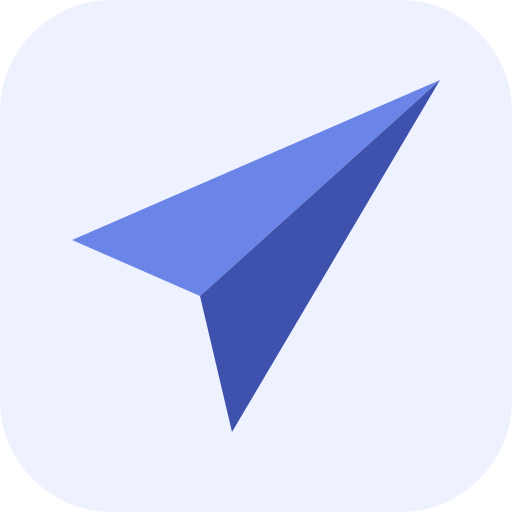
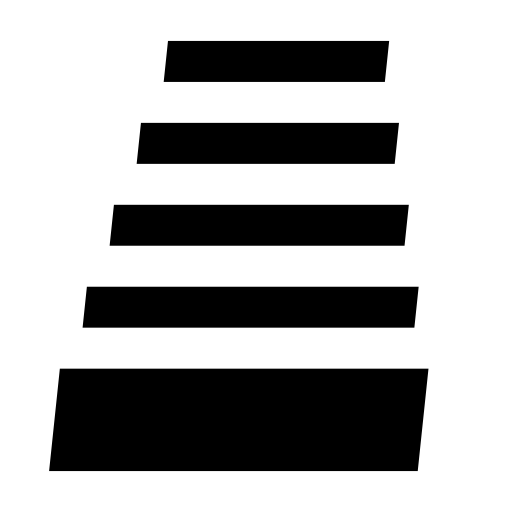
feat(brand): replace the Dart with the Stack mark everywhere
One artwork, everywhere: a black stack of four tapering bars over a solid
block, centred and sheared 6 degrees, on a plain white ground. There is no
reversed, tinted or accent-coloured variant, by design.

All of public/brand/ and app/icon.png are now generated by
scripts/generate-brand-assets.mjs. Change MARK_PATH there and re-run rather
than hand-editing any asset, so the favicon, the OG card, the header and the
extension cannot drift apart. opengraph-image.tsx inlines the same path.

Three wrappers assumed the old mark and were corrected:
- /start founder note no longer rounds or pads it; the artwork is a square
  with its own ground and the corners were being clipped.
- /try popup mock no longer sits it on a bg-brand tile.
- /try toolbar ring is neutral rather than brand blue.

Deletes unreferenced litos-logo-blue.svg and litos-logo-white.svg, which
carried the old branding and nothing pointed at them.

diff --git a/components/try/TrySimulator.tsx b/components/try/TrySimulator.tsx
@@ -234,7 +234,7 @@ export function TrySimulator({
           </span>
           <span className="shrink-0 text-[13px] text-faint">🧩</span>
           {/* The Litos toolbar icon the popup hangs off of */}
-          <span className="flex h-6 w-6 shrink-0 items-center justify-center rounded-md ring-2 ring-brand/30">
+          <span className="flex h-6 w-6 shrink-0 items-center justify-center rounded-md ring-2 ring-ink/15">
             {/* eslint-disable-next-line @next/next/no-img-element */}
             <img src="/brand/litos-mark.svg" alt="" className="h-5 w-5" />
           </span>
@@ -283,12 +283,13 @@ export function TrySimulator({
               {/* caret pointing up to the toolbar icon */}
               <span className="absolute -top-1.5 right-6 hidden h-3 w-3 rotate-45 rounded-[3px] border-l border-t border-border bg-white lg:block" />
 
-              {/* Header, matches the real popup: brand square + name + icons */}
+              {/* Header, matches the real popup: the mark + name + icons. The mark
+                  carries its own white ground, so it sits on no coloured tile. */}
               <div className="flex items-center justify-between border-b border-border px-4 py-3">
                 <span className="flex items-center gap-2">
-                  <span className="flex h-6 w-6 items-center justify-center rounded-lg bg-brand">
+                  <span className="flex h-6 w-6 items-center justify-center">
                     {/* eslint-disable-next-line @next/next/no-img-element */}
-                    <img src="/brand/litos-mark.svg" alt="" className="h-4 w-4" />
+                    <img src="/brand/litos-mark.svg" alt="" className="h-6 w-6" />
                   </span>
                   <span className="text-[15px] font-bold tracking-tight text-ink">
                     Litos

diff --git a/components/start/ui.tsx b/components/start/ui.tsx
@@ -175,11 +175,13 @@ export function LaterLink({ onClick }: { onClick: () => void }) {
 export function FounderNote({ children }: { children: React.ReactNode }) {
   return (
     <div className="flex items-start gap-3 rounded-[12px] border border-border bg-surface-alt px-4 py-3.5">
+      {/* The mark is a square artwork with its own white ground: no rounding and
+          no padding, or the corners of the stack get clipped. */}
       {/* eslint-disable-next-line @next/next/no-img-element */}
       <img
         src="/brand/litos-mark.svg"
         alt=""
-        className="mt-0.5 h-6 w-6 shrink-0 rounded-full border border-border bg-surface p-1"
+        className="mt-0.5 h-6 w-6 shrink-0 border border-border"
       />
       <div className="min-w-0">
         <p className="font-mono text-[10px] uppercase tracking-[0.08em] text-faint">

diff --git a/components/Header.tsx b/components/Header.tsx
@@ -55,8 +55,9 @@ export function Header() {
     >
       <div className="rq-glass mx-auto flex max-w-5xl items-center justify-between rounded-full py-2 pl-4 pr-2">
         <a href="/" className="flex items-center gap-2">
-          {/* The official mark (public/brand/litos-mark.svg), not a CSS
-              circle: one drawing of the R everywhere the brand appears. */}
+          {/* The official mark (public/brand/litos-mark.svg), generated by
+              scripts/generate-brand-assets.mjs: one drawing, black stack on
+              white, everywhere the brand appears. */}
           {/* eslint-disable-next-line @next/next/no-img-element */}
           <img src="/brand/litos-mark.svg" alt="" className="h-6 w-6" />
           <span className="text-[15px] font-semibold tracking-tight text-ink">

diff --git a/DESIGN.md b/DESIGN.md
@@ -170,4 +170,5 @@ up. Color encodes what something is, never how urgently to act.
 | 2026-07-06 | Full-page reel (Mehek: the entire website must be one clear reel, not a film hero over an unedited page). Every section below the film became a `.rq-chapter` panel: rounded 36px top lip, -36px overlap, lifted shadow, scrubbed 44px rise on entry — the next card of the reel sliding over the last. Each chapter sits on a washed still FROM the film (`FilmStill` component: frame img + white feather veil + parallax): receipt=104, odds=8, formats=24, documents=30, autofill=55, outreach=80, pricing=112, faq=116, close=120. Pillar text blocks became rq-glass cards (film-card rhyme) carrying receipt timestamps as eyebrows (19:42:11 / :14 / :16, receipt canon); the receipt chapter opens with "19:42:07 → 19:42:16". Pillar flat tint bands became tint overlays OVER their stills (bg-{pillar}-soft/40), same layering as the film's chapter tints. All copy, demos, pricing, FAQ content unchanged | One reel = one continuous surface: the studio never leaves, chapters stack like frames, and the 9-second receipt timeline is the page's clock |
 | 2026-07-06 | Fixed-stage pass (Mehek: sections must be ingrained IN the animation, scroll smoother/less erratic, no white header bar). (1) The film canvas + tint + dust + vignette became a FIXED full-viewport stage behind the entire page; frame index is now whole-page scroll progress (frame 0 at top, the packet completes at the footer). Every chapter panel became translucent (bg-white/70-85 + backdrop-blur-md) so the film reads through and around every section; per-section FilmStill snapshots removed (live film replaced them). (2) Smoothness: ScrollTrigger snap REMOVED (it yanked the scroll), Lenis lerp 0.09 → 0.07 and wheelMultiplier 0.85, hero card scrub 0.85 → 1, chapter-rise scrub removed (whole-section transforms wobbled), canvas imageSmoothingQuality high. (3) Header is a floating rounded-full rq-glass pill (fixed, top-3, max-w-5xl), no border-b, no full-width white band | The animation IS the page: one fixed stage, panels float on it, and nothing ever snaps or bands white |
 | 2026-07-06 | Paper-storm pass (Mehek: content must sit ON the flying-papers animation itself, papers consistent start to finish, collating into the single book ONLY at the end). (1) Section panels REMOVED entirely (no bg, no blur, no rounded lips — .rq-chapter CSS deleted): every section is transparent and its content sits on a feathered radial `Wash` (white / warm / pillar-soft tints, ~93% center → 0% edges), so flying papers stay visible around and between every section; FilmStill deleted. (2) Film pacing curve: page 0→0.86 plays only frames 0→74 (the swirl — papers never settle mid-page), page 0.86→1 compresses frames 75→120 (collation + washes) so the book assembles exactly at the close + footer. (3) FAQ list got an rq-glass card (only small cards get glass — panels never). Readability floor: text sits on wash centers; demos/mockups are already white cards | The page IS the storm: content floats in it, and the story resolves — one book — only where the page ends |
+| 2026-07-23 | **The Stack replaces the Dart as the mark.** One artwork everywhere: a black stack of four tapering bars over a solid block, centred and sheared 6 degrees, on a plain white ground. No reversed, tinted or accent-coloured variant exists, by design. All of `public/brand/` and `app/icon.png` are now generated by `scripts/generate-brand-assets.mjs`; edit MARK_PATH there and re-run rather than hand-editing any asset. `opengraph-image.tsx` inlines the same path. Two wrappers that assumed the old mark were corrected: the `/start` founder note no longer rounds or pads it (the artwork is a square with its own ground and the corners were being clipped) and the `/try` popup mock no longer sits it on a `bg-brand` tile. Unreferenced `litos-logo-blue.svg` and `litos-logo-white.svg` deleted as old branding | The mark carries its own white ground, so it never needs a coloured tile, a circle, or padding; and one generator means the favicon, the OG card, the header and the extension can never drift apart |
 | 2026-07-07 | The Dart logo cut into production (approved 2026-07-05, was pending). `public/brand/litos-mark.svg` replaced with the paper-dart tile (two blue triangles on a `#eef1fe` tile), so the header, footer, and login mark all update from one file; favicon (`app/icon.png`) and the mark/tile PNGs (16→512) regenerated from the same SVG; the OG card (`opengraph-image.tsx`) now inlines the Dart as a data-URI instead of the CSS "R" circle. Wordmark kept as single-ink "Litos" text (the decision's lowercase two-tone treatment left for a later brand pass). The dart doubles as brand rhyme: the mark is itself a flying paper, echoing the storm | One drawing of the mark everywhere the brand appears; the paper-dart ties the logo to the film's flying-paper language |
